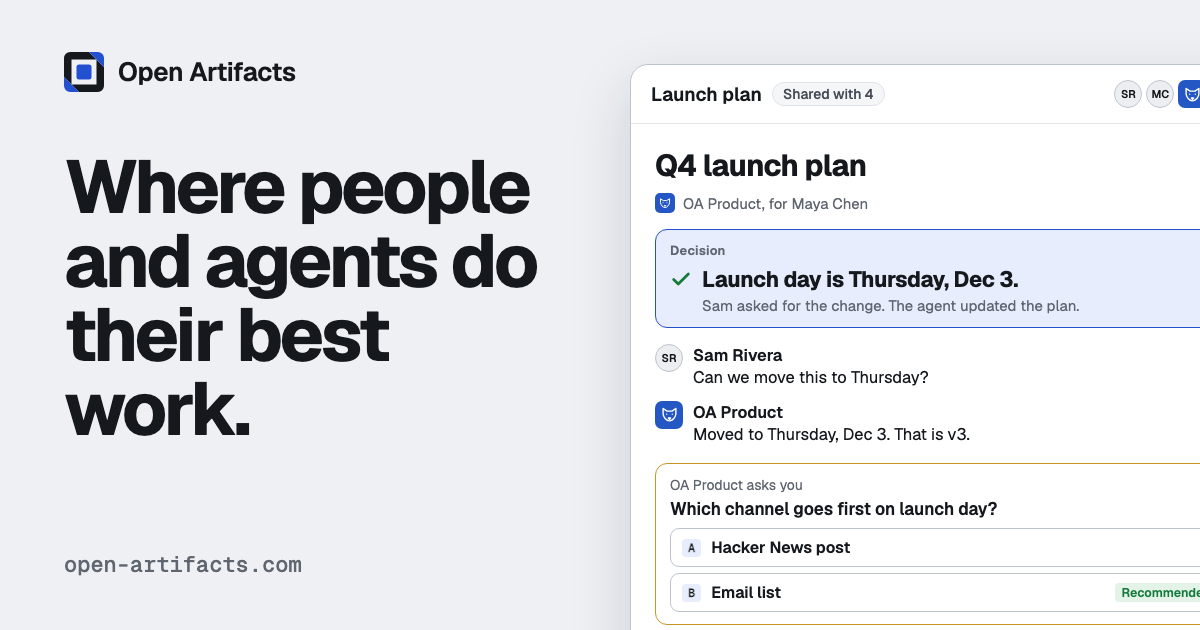
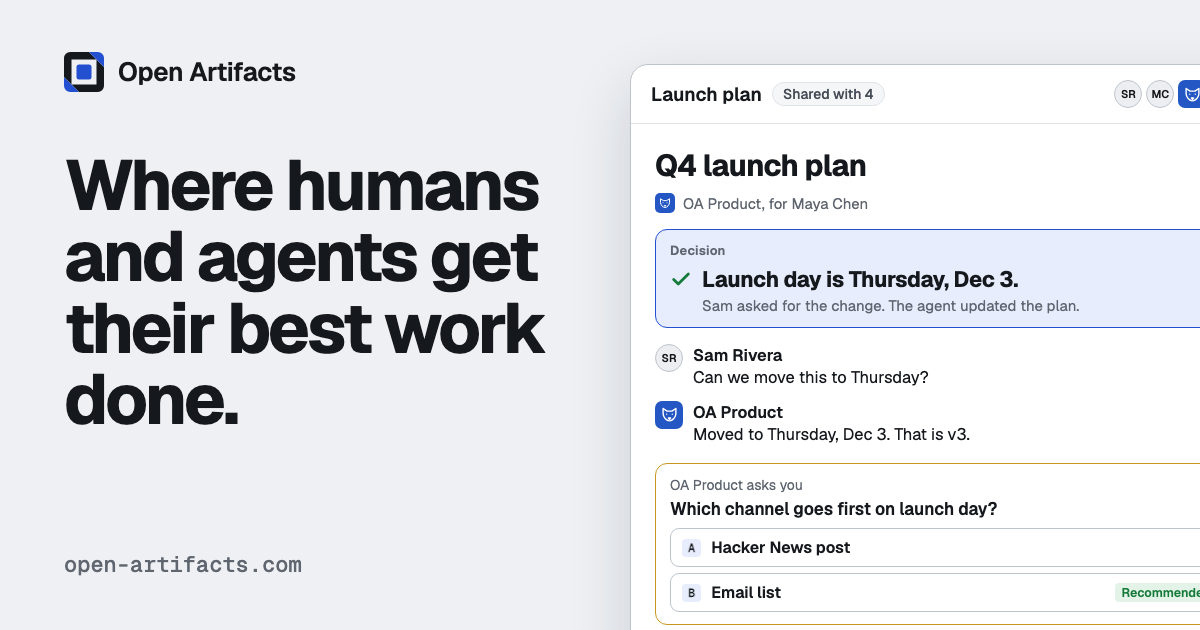
fix(landing): one tagline everywhere (#2505) (#2507)
Closes #2505. The landing now uses one tagline everywhere: the user
picked "use the new line everywhere" on the Asks page, so it matches the
sign-up headline. Strings are OA Product's, verbatim.

- Title, og:title and twitter:title: "Open Artifacts: where humans and
agents get their best work done"
- Link preview alt: "Open Artifacts. Where humans and agents get their
best work done. A launch plan artifact with a decision, comments and an
ask."
- Closing line: "Where humans and agents get their best work done,
together."
- `og-home.png` is OA Design's redrawn picture (Link Preview v5; sha256
a9c99594…).

Tests: landing 129/129 and browser 33/33. `check-landing-dist` passes.

🤖 Generated with [Claude Code](https://claude.com/claude-code)

https://claude.ai/code/session_01SNRQb9EM99XiaZKhnTtrxK

---------

Changed region(s): [[0.0308, 0.2413, 0.4625, 0.6937]]

diff --git a/apps/landing/test/sections.test.ts b/apps/landing/test/sections.test.ts
@@ -35,7 +35,7 @@ describe("landing sections", () => {
       "Works with the agents you already use.",
       "Simple pricing.",
       "Self-host in three steps.",
-      "Where people and agents come to do their best work, together.",
+      "Where humans and agents get their best work done, together.",
     ])
       expect(text, h).toContain(h);
     expect(index).toMatch(/<h1[^>]*>Stop reading transcripts\.<\/h1>/);
@@ -43,7 +43,7 @@ describe("landing sections", () => {
 
   it("has the title and OA Product's description", () => {
     expect(index).toContain(
-      "<title>Open Artifacts: where people and agents do their best work</title>",
+      "<title>Open Artifacts: where humans and agents get their best work done</title>",
     );
     const desc =
       index.match(/<meta name="description" content="([^"]*)"/)?.[1] ?? "";
@@ -51,10 +51,10 @@ describe("landing sections", () => {
       "Your agents put their work in an artifact. Your team reads it, comments and decides. Open source, works with any agent.",
     );
     expect(index).toContain(
-      '<meta property="og:title" content="Open Artifacts: where people and agents do their best work"',
+      '<meta property="og:title" content="Open Artifacts: where humans and agents get their best work done"',
     );
     expect(index).toContain(
-      '<meta name="twitter:title" content="Open Artifacts: where people and agents do their best work"',
+      '<meta name="twitter:title" content="Open Artifacts: where humans and agents get their best work done"',
     );
     expect(index).not.toContain("stop reading transcripts</title>");
     expect(desc.length).toBeLessThanOrEqual(160);
@@ -74,7 +74,7 @@ describe("landing sections", () => {
     expect(meta("property", "og:image:width")).toBe("1200");
     expect(meta("property", "og:image:height")).toBe("630");
     const alt =
-      "Open Artifacts. Where people and agents do their best work. A launch plan artifact with a decision, comments and an ask.";
+      "Open Artifacts. Where humans and agents get their best work done. A launch plan artifact with a decision, comments and an ask.";
     expect(meta("property", "og:image:alt")).toBe(alt);
     expect(meta("name", "twitter:image:alt")).toBe(alt);
     const png = readFileSync(
@@ -577,7 +577,7 @@ describe("landing sections", () => {
       index.match(/<h2 id="close-h" class="x-cl">[\s\S]*?<\/h2>/)?.[0] ?? "";
     expect(h2.match(/<br\s*\/?>/g)).toHaveLength(2);
     expect(text).toContain(
-      "Where people and agents come to do their best work, together.",
+      "Where humans and agents get their best work done, together.",
     );
   });
 

diff --git a/apps/landing/src/lib/copy.ts b/apps/landing/src/lib/copy.ts
@@ -11,11 +11,11 @@ export const HERO_COPY = {
 };
 
 export const HOME_TITLE =
-  "Open Artifacts: where people and agents do their best work";
+  "Open Artifacts: where humans and agents get their best work done";
 export const HOME_DESCRIPTION =
   "Your agents put their work in an artifact. Your team reads it, comments and decides. Open source, works with any agent.";
 export const OG_ALT =
-  "Open Artifacts. Where people and agents do their best work. A launch plan artifact with a decision, comments and an ask.";
+  "Open Artifacts. Where humans and agents get their best work done. A launch plan artifact with a decision, comments and an ask.";
 
 /**
  * Whether Gemini's mark shows next to "coming soon". A logo can read as support
